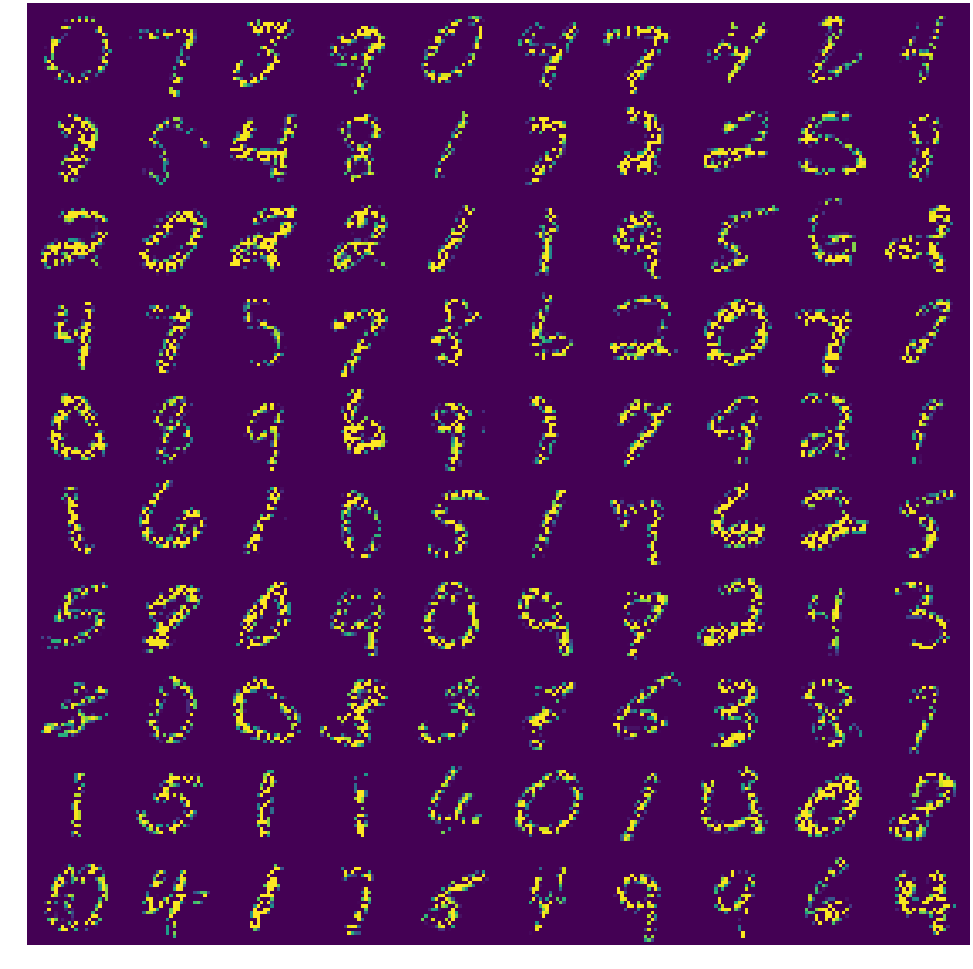
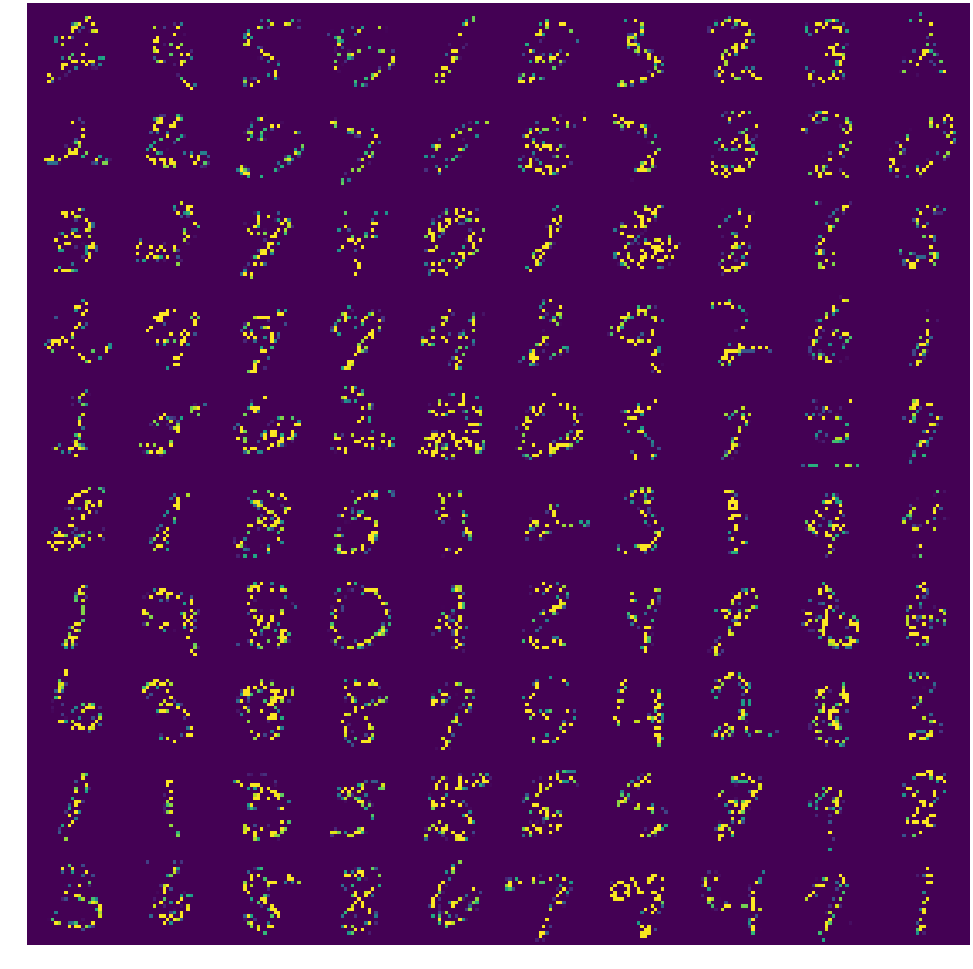
Random corruption

diff --git a/insight.py b/insight.py
@@ -5,13 +5,14 @@ from plots.grid_plots import show_samples
 from tensorflow.examples.tutorials.mnist import input_data
 from tqdm import tqdm
 from models.ifvae import IFVAE
+import random
 
 def main():
     flags = tf.flags
     flags.DEFINE_integer("latent_dim", 2, "Dimension of latent space.")
     flags.DEFINE_integer("batch_size", 128, "Batch size.")
     flags.DEFINE_integer("epochs", 500, "As it said")
-    flags.DEFINE_float("dropout", 0.5, "Dropout rate")
+    flags.DEFINE_float("dropout", 0.7, "Dropout rate")
     flags.DEFINE_integer("updates_per_epoch", 100, "Really just can set to 1 if you don't like mini-batch.")
     flags.DEFINE_string("data_dir", 'mnist', "Tensorflow demo data download position.")
     FLAGS = flags.FLAGS
@@ -30,7 +31,9 @@ def main():
 
         for _ in range(FLAGS.updates_per_epoch):
             x, _ = mnist.train.next_batch(FLAGS.batch_size)
-            loss = vae.update(x, corruption=0.2)
+            # Random Corruption
+            corrupt_rate = random.uniform(0.1, 0.6)
+            loss = vae.update(x, corruption=corrupt_rate)
             training_loss += loss
 
         training_loss /= FLAGS.updates_per_epoch
@@ -45,7 +48,7 @@ def main():
     corrupted_x = x*np.random.binomial([np.ones((FLAGS.batch_size, 784))], 1-FLAGS.dropout)[0]
     show_samples(corrupted_x, 10, 10, [28, 28], name='corrupted')
     # Rescale
-    corrupted_x = corrupted_x * (1.0/(1-0.8))
+    corrupted_x = corrupted_x * (1.0/(1-FLAGS.dropout))
 
     # Reconstructed
     samples = vae.inference(corrupted_x)
